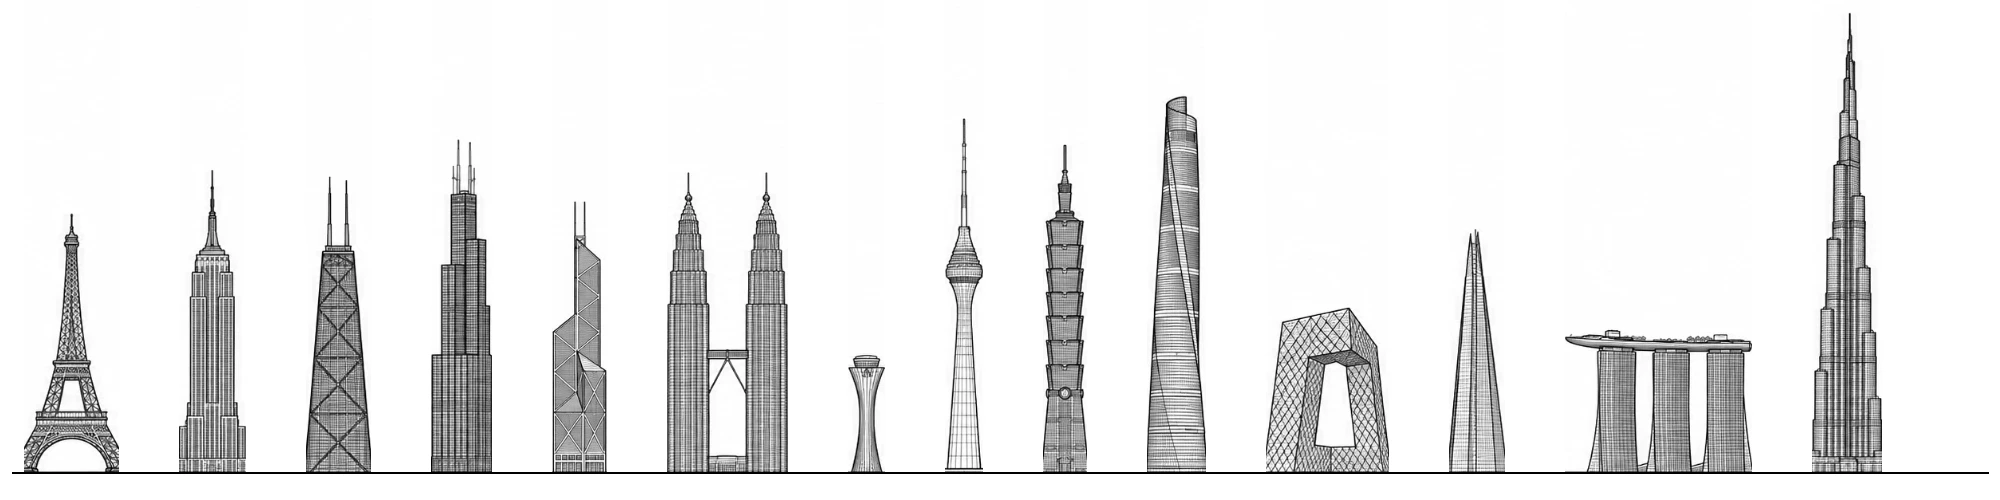
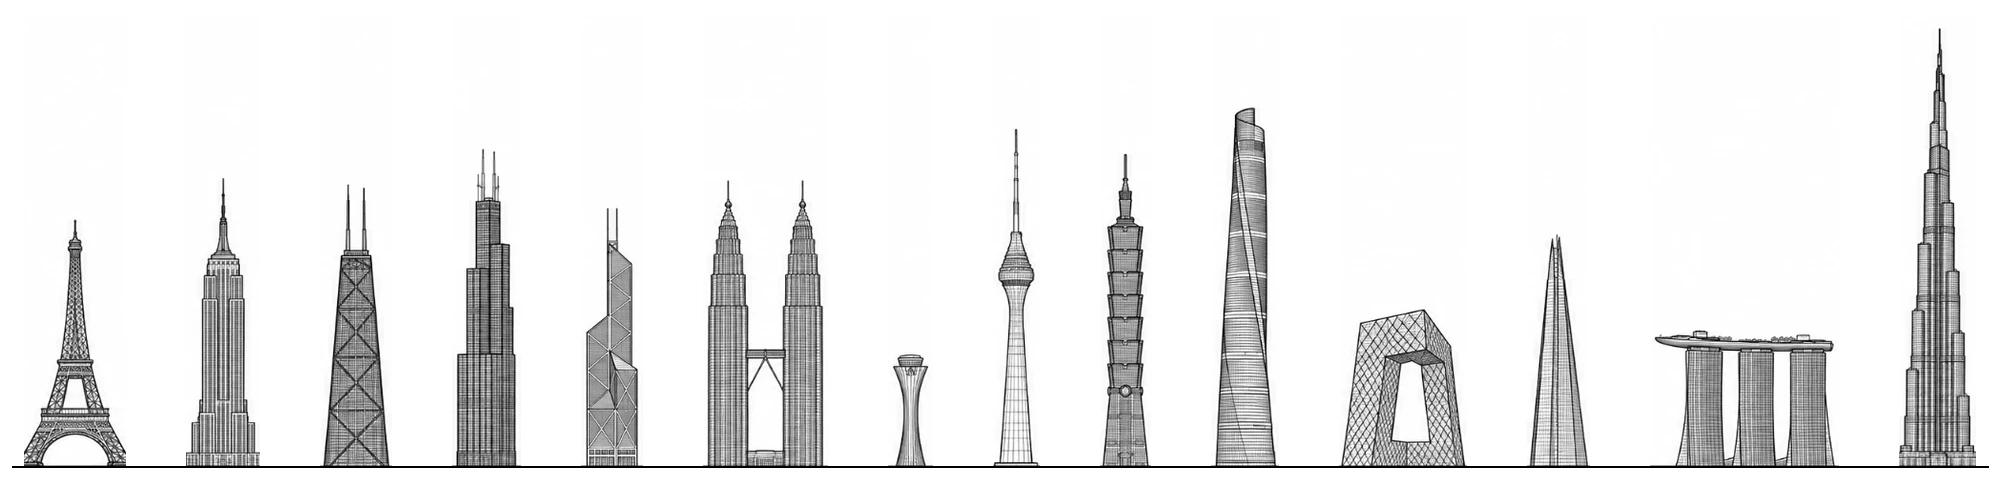
Skyline: count light hatching as ink and pad building columns so outer edges are not trimmed

Changed region(s): [[0.0, 0.0911, 0.992, 0.9717], [0.465, 0.3947, 0.496, 0.4251]]

diff --git a/index.html b/index.html
@@ -36,7 +36,7 @@
   </section>
 
   <figure id="skyline" class="wrap skyline" aria-label="Dünyanın ve Türkiye'nin simge yapılarından oluşan silüet">
-    <div class="skyline-stage"><img class="skyline-static" src="assets/senkon/skyline.webp?v=20261009f" alt="Eyfel Kulesi'nden Burj Khalifa'ya simge yapıların çizgi silüeti" width="2000" height="500"></div>
+    <div class="skyline-stage"><img class="skyline-static" src="assets/senkon/skyline.webp?v=20261009g" alt="Eyfel Kulesi'nden Burj Khalifa'ya simge yapıların çizgi silüeti" width="2000" height="494"></div>
     <figcaption class="skyline-caption">Yapı mühendisliğinin simge yapıları. Ortada, üzerinde çalıştığımız Esenboğa Havalimanı Kontrol Kulesi.</figcaption>
   </figure>
 
@@ -141,6 +141,6 @@
   });
 })();
 </script>
-<script src="assets/senkon/skyline.js?v=20261009f" defer></script>
+<script src="assets/senkon/skyline.js?v=20261009g" defer></script>
 </body>
 </html>

diff --git a/tools/measure-skyline.py b/tools/measure-skyline.py
@@ -14,7 +14,8 @@ import json, sys
 from PIL import Image
 sys.stdout.reconfigure(encoding='utf-8')   # Turkish names on a Windows console
 
-DARK = 170      # gray level below which a pixel counts as ink
+DARK = 232      # gray level below which a pixel counts as ink (light hatching included)
+PAD = 5         # pixels added on each side of a building so faint edges are not trimmed
 GAP = 6         # white columns needed to separate two buildings
 MIN_W = 12      # narrower runs are noise (stray hatching)
 BASE = 24       # pixels above the ground line ignored when splitting (base clutter, plinths)
@@ -58,6 +59,9 @@ while x < w:
     x = max(x, x1 + 1)
 
 for i, r in enumerate(runs):
+    lo = runs[i - 1]['x1'] + 1 if i else 0
+    hi = runs[i + 1]['x0'] - 1 if i + 1 < len(runs) else w - 1
+    r['x0'] = max(lo, r['x0'] - PAD); r['x1'] = min(hi, r['x1'] + PAD)
     if i < len(names): r['name'] = names[i]
 json.dump({'w': w, 'h': h, 'ground': ground, 'cols': runs}, open(out, 'w', encoding='utf-8'), ensure_ascii=False, indent=1)
 print(f'{w}x{h} ground={ground} buildings={len(runs)}')

diff --git a/tools/compose-skyline.py b/tools/compose-skyline.py
@@ -17,7 +17,7 @@ Run measure-skyline.py on the result to write skyline.json.
 import sys
 from PIL import Image, ImageDraw
 
-DARK, GAP, MIN_W, BASE = 170, 6, 12, 24
+DARK, GAP, MIN_W, BASE, PAD = 232, 6, 12, 24, 5
 
 def columns(im, splits=()):
     w, h = im.size; px = im.load()
@@ -66,7 +66,7 @@ src, out = args[0], args[1]
 im = Image.open(src).convert('L')
 w, h = im.size
 ground, runs = columns(im, splits)
-pieces = [im.crop((x0, 0, x1 + 1, ground)) for i, (x0, x1) in enumerate(runs) if i not in drops]   # above the ground line
+pieces = [im.crop((max(0, x0 - PAD), 0, min(w, x1 + 1 + PAD), ground)) for i, (x0, x1) in enumerate(runs) if i not in drops]   # above the ground line
 for idx, f, hpx in sorted(inserts, reverse=True):
     extra = crop_ink(Image.open(f).convert('L'))
     scale = hpx / extra.height
